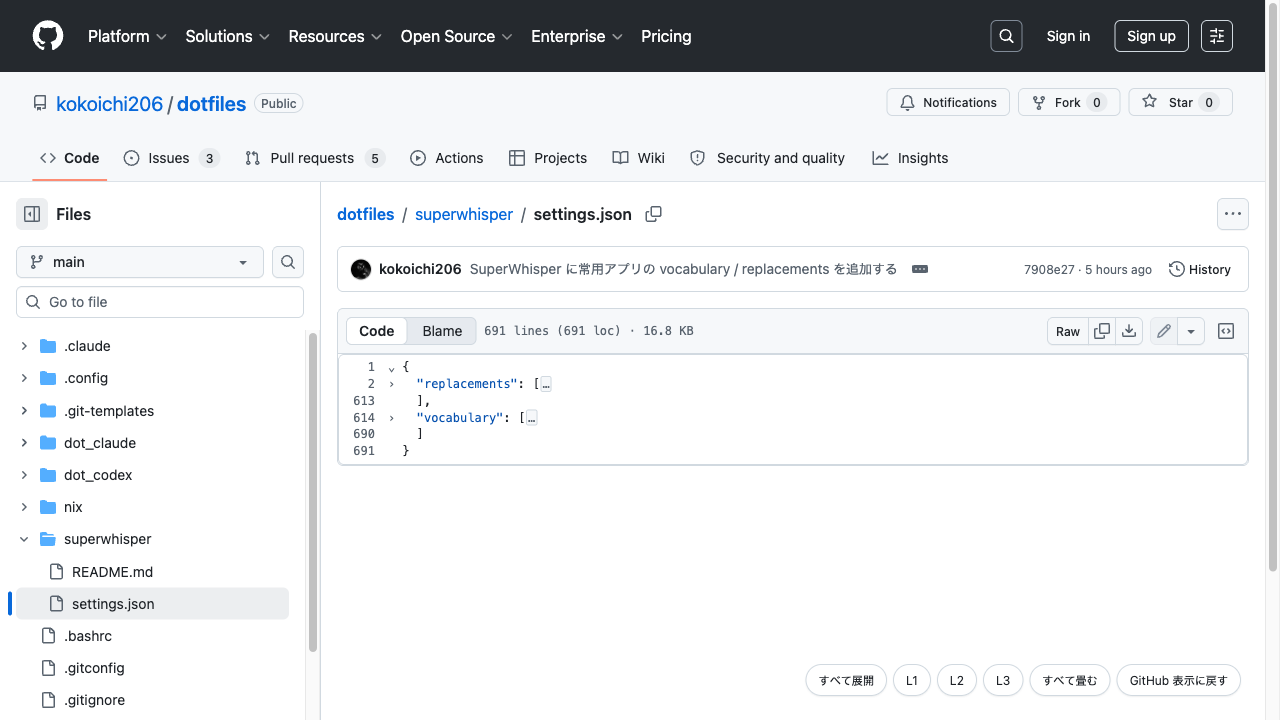
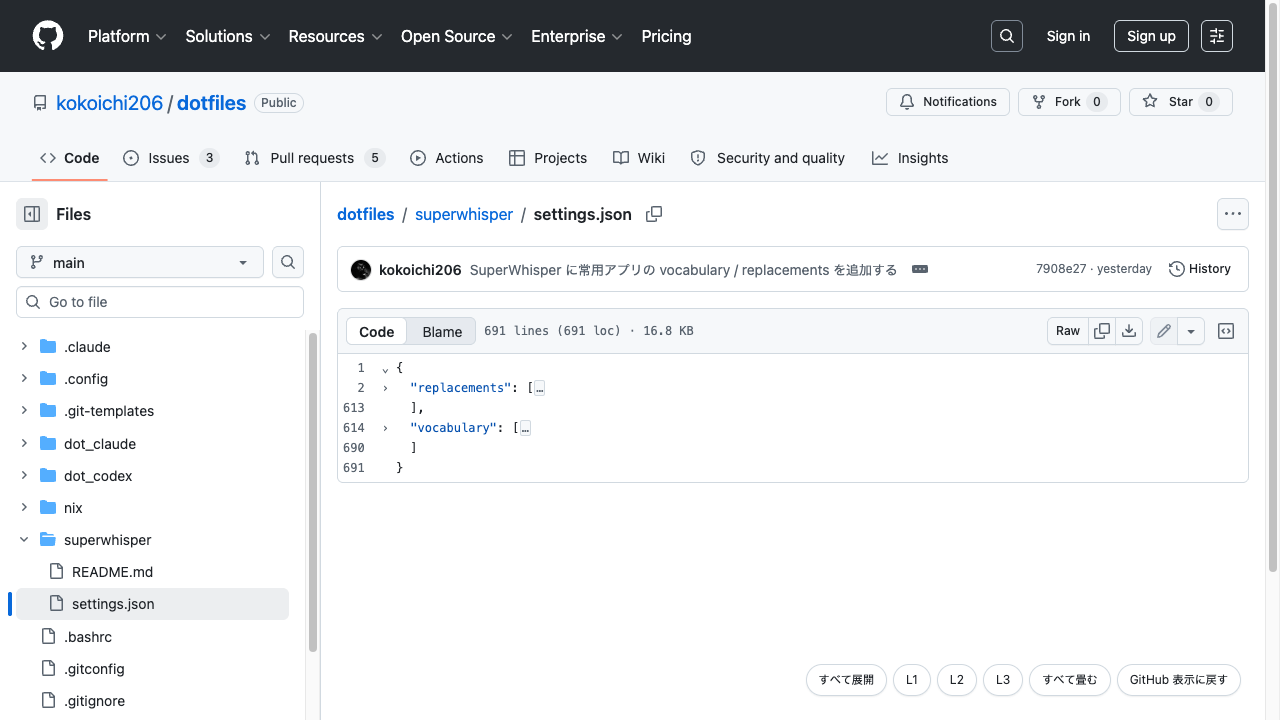
本家コードビューに見た目を揃え、Foldable view をデフォルト有効にする
- 行高 20px・行番号 40px + 右 16px は本家の実測値。パネルの枠線は
  GitHub の外側ボックスと二重になるため外す
- blob ページではデフォルトでビューアを開く。「GitHub 表示に戻す」で
  オフを localStorage に記憶し、以後は手動起動のみ（origin 単位）
- E2E を自動起動フローに更新し、オフ記憶の永続化チェックを追加（10 項目）

diff --git a/src/content/main.ts b/src/content/main.ts
@@ -8,12 +8,20 @@ import {
 
 const CONTROLS_ID = "gfv-controls";
 const PANEL_ID = "gfv-panel";
+/* blob ページではデフォルトで Foldable view を開く。
+   「GitHub 表示に戻す」を押したらオフを記憶し、次からは自動で開かない */
+const AUTO_PREF_KEY = "gfv-auto-activate";
 
 let active: {
   viewer: FoldableViewer;
   panel: HTMLElement;
   hiddenSection: HTMLElement;
 } | null = null;
+let activating = false;
+
+function autoActivateEnabled(): boolean {
+  return localStorage.getItem(AUTO_PREF_KEY) !== "off";
+}
 
 function injectStylesOnce(): void {
   if (document.getElementById("gfv-style") !== null) return;
@@ -33,7 +41,6 @@ function injectStylesOnce(): void {
   font-size: 12px; cursor: pointer;
   box-shadow: var(--shadow-resting-small, 0 1px 3px rgba(0,0,0,.2));
 }
-#${PANEL_ID} { border: 1px solid var(--borderColor-default, #d1d9e0); border-radius: 6px; }
 #${PANEL_ID} .cm-editor { max-width: 100%; }
 `;
   document.head.appendChild(style);
@@ -58,7 +65,10 @@ function renderControls(): void {
 
   if (active === null) {
     controls.dataset.gfvState = "off";
-    addButton("activate", "⌄ Foldable view", () => void activate());
+    addButton("activate", "⌄ Foldable view", () => {
+      localStorage.setItem(AUTO_PREF_KEY, "on");
+      void activate();
+    });
     return;
   }
 
@@ -69,7 +79,10 @@ function renderControls(): void {
   addButton("l2", "L2", () => viewer.foldToLevel(2));
   addButton("l3", "L3", () => viewer.foldToLevel(3));
   addButton("fold-all", "すべて畳む", () => viewer.foldAllRanges());
-  addButton("deactivate", "GitHub 表示に戻す", deactivate);
+  addButton("deactivate", "GitHub 表示に戻す", () => {
+    localStorage.setItem(AUTO_PREF_KEY, "off");
+    deactivate();
+  });
 }
 
 function ensureControls(): void {
@@ -79,19 +92,25 @@ function ensureControls(): void {
     existing?.remove();
     return;
   }
-  if (existing !== null) return;
+  if (existing !== null) {
+    if (active === null && autoActivateEnabled()) void activate();
+    return;
+  }
 
   injectStylesOnce();
   const controls = document.createElement("div");
   controls.id = CONTROLS_ID;
   document.body.appendChild(controls);
   renderControls();
+  if (autoActivateEnabled()) void activate();
 }
 
 async function activate(): Promise<void> {
+  if (activating || active !== null) return;
   const textarea = findSourceTextarea();
   const section = findCodeSection();
-  if (textarea === null || section === null || active !== null) return;
+  if (textarea === null || section === null) return;
+  activating = true;
 
   const panel = document.createElement("div");
   panel.id = PANEL_ID;
@@ -102,8 +121,12 @@ async function activate(): Promise<void> {
   section.insertAdjacentElement("beforebegin", panel);
   section.style.display = "none";
 
-  const viewer = await createViewer(panel, textarea.value, currentFilename());
-  active = { viewer, panel, hiddenSection: section };
+  try {
+    const viewer = await createViewer(panel, textarea.value, currentFilename());
+    active = { viewer, panel, hiddenSection: section };
+  } finally {
+    activating = false;
+  }
   renderControls();
 }
 

diff --git a/src/viewer/create-viewer.ts b/src/viewer/create-viewer.ts
@@ -21,7 +21,8 @@ export interface FoldableViewer {
   destroy: () => void;
 }
 
-/* 配色は GitHub がページに公開している CSS 変数を参照し、テーマ切替に自動追従する */
+/* 配色は GitHub がページに公開している CSS 変数を参照し、テーマ切替に自動追従する。
+   フォント・行高・ガター幅は本家コードビューの実測値 (12px/20px, 行番号 40px + 右 16px) に合わせる */
 const baseTheme = EditorView.theme({
   "&": {
     fontSize: "12px",
@@ -31,15 +32,17 @@ const baseTheme = EditorView.theme({
   ".cm-content": {
     fontFamily:
       'ui-monospace, SFMono-Regular, "SF Mono", Menlo, Consolas, monospace',
+    lineHeight: "20px",
   },
   ".cm-gutters": {
     backgroundColor: "transparent",
     border: "none",
     color: "var(--fgColor-muted, #59636e)",
+    lineHeight: "20px",
   },
   ".cm-lineNumbers .cm-gutterElement": {
-    minWidth: "48px",
-    paddingRight: "12px",
+    minWidth: "40px",
+    paddingRight: "16px",
   },
   ".cm-foldPlaceholder": {
     backgroundColor: "var(--bgColor-muted, #f6f8fa)",
